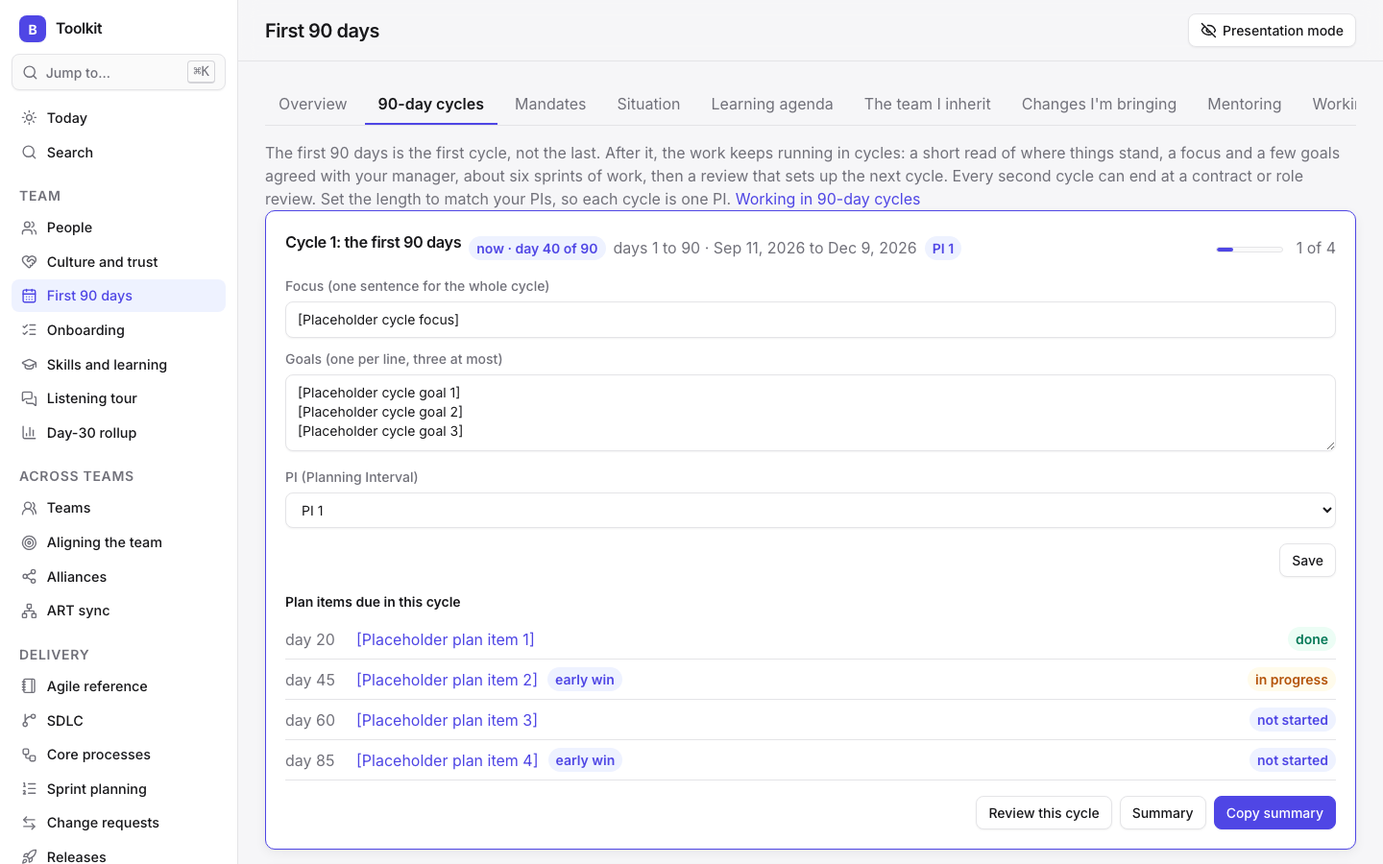
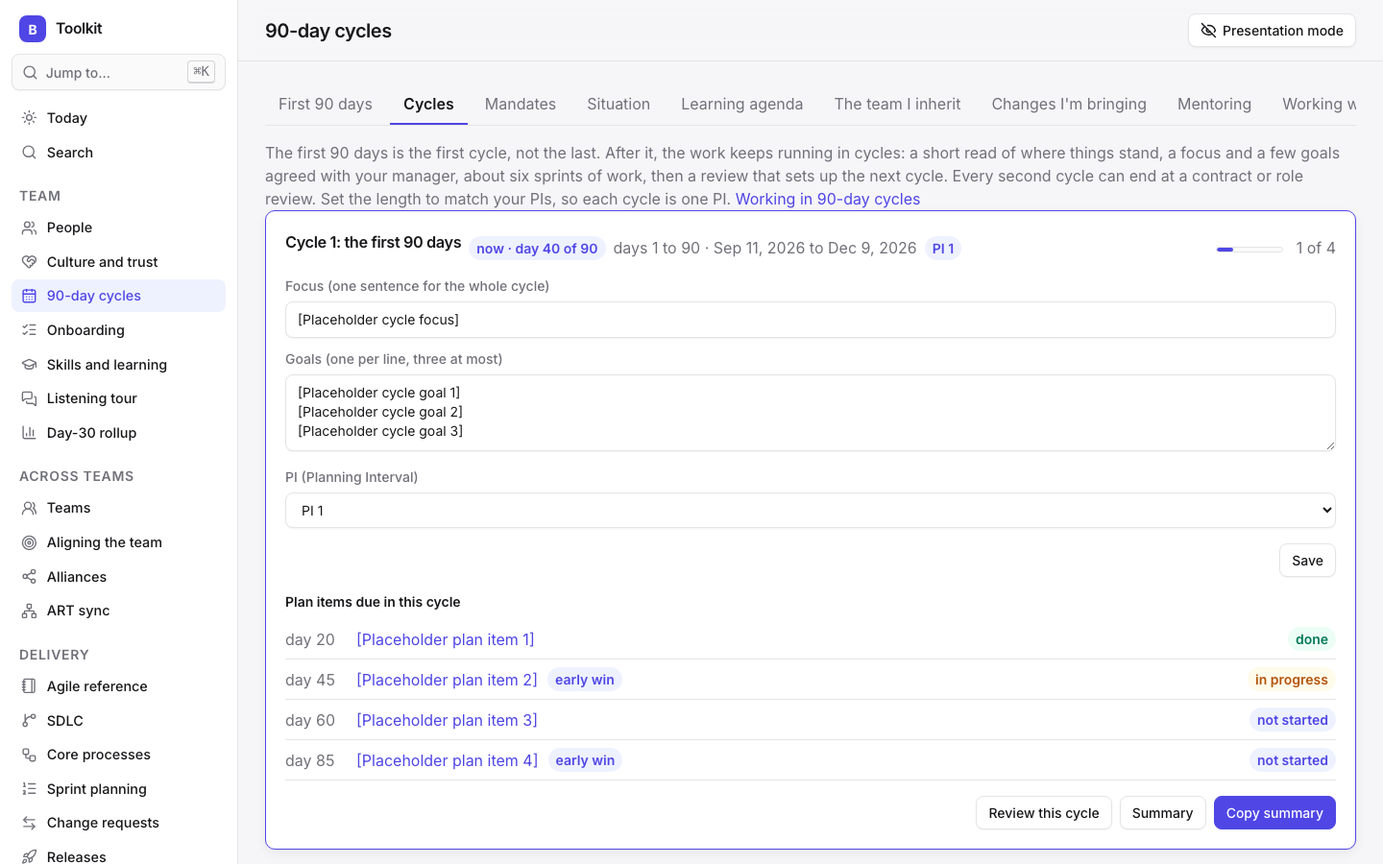
Rename the First 90 days section to 90-day cycles
The section now leads with 90-day cycles of strategy and execution; the
first 90 days is its first tab, and the cycles tab is Cycles. README
updated to match, with a line on building a learning culture from the
reports and presentations the toolkit accumulates. Screenshots retaken.

Changed region(s): [[0.2188, 0.0933, 0.9688, 0.1244], [0.1875, 0.0311, 0.2812, 0.0622], [0.0312, 0.3111, 0.0938, 0.3733]]

diff --git a/src/beanagileorg/toolkit/static/app.js b/src/beanagileorg/toolkit/static/app.js
@@ -6685,7 +6685,7 @@
   const STAGE_TONES = { idea: "", announced: "accent", trial: "warn", review: "warn", adopted: "good", dropped: "" };
   const NEXT_STAGE = { idea: ["announced", "Announce it"], announced: ["trial", "Start the trial"], trial: ["review", "Review with the team"] };
   const AUTO_LABELS = { one_on_one: "a one-on-one logged under People", interview: "a listening tour conversation marked done", growth_goal: "a growth goal on their Manager tab", feedback: "feedback marked shared on their Manager tab", mandate: "their mandate marked agreed" };
-  const f90Tabs = (active) => `<nav class="tabs">${[["", "Overview"], ["cycles", "90-day cycles"], ["mandates", "Mandates"], ["situation", "Situation"], ["learning", "Learning agenda"], ["team", "The team I inherit"], ["changes", "Changes I'm bringing"], ["mentoring", "Mentoring"], ["working", "Working with me"]]
+  const f90Tabs = (active) => `<nav class="tabs">${[["", "First 90 days"], ["cycles", "Cycles"], ["mandates", "Mandates"], ["situation", "Situation"], ["learning", "Learning agenda"], ["team", "The team I inherit"], ["changes", "Changes I'm bringing"], ["mentoring", "Mentoring"], ["working", "Working with me"]]
     .map(([k, l]) => `<a href="#/first90${k ? "/" + k : ""}" class="${k === active ? "active" : ""}">${l}</a>`).join("")}</nav>`;
   const f90Progress = (done, total) => `<span class="progress"><span style="width:${total ? Math.round((100 * done) / total) : 0}%"></span></span><span class="quiet">${done ?? 0} of ${total ?? 0}</span>`;
   const f90_dayLabel = (n) => n == null ? "not started" : n < 1 ? `starts in ${1 - n} day${1 - n === 1 ? "" : "s"}` : n > 90 ? `day ${n}, past 90` : `day ${n}`;
@@ -6733,7 +6733,7 @@
 
 
   BA.view("/first90", {
-    title: "First 90 days",
+    title: "90-day cycles",
     async render(main, param) {
       const views = { cycles: renderCycles, team: renderF90Team, changes: renderF90Changes, working: renderWorking, mandates: renderMandates, situation: renderSituation, learning: renderLearning, mentoring: renderMentoring };
       if (views[param]) return views[param](main);

diff --git a/src/beanagileorg/core/coaching.py b/src/beanagileorg/core/coaching.py
@@ -595,7 +595,7 @@ GUIDES = [
             "Which decisions should wait for the people who'll carry them out?",
         ],
         "try": [
-            "Set your team decision deadlines in First 90 days, and mark your key people on their pages.",
+            "Set your team decision deadlines under 90-day cycles, and mark your key people on their pages.",
             "Ask HR who your partner is for any change to roles.",
         ],
         "related": ["/first90", "/people", "/alignment"], "reading": [F90],
@@ -1624,7 +1624,7 @@ GUIDES = [
             "What did the last cycle teach us that should change how we run this one?",
         ],
         "try": [
-            "Open 90-day cycles under First 90 days, write the current cycle's focus in one sentence, and pick its three goals.",
+            "Open Cycles under 90-day cycles, write the current cycle's focus in one sentence, and pick its three goals.",
         ],
         "related": ['/first90', '/plans', '/coaching/early-wins'], "reading": [F90],
     },
@@ -1676,7 +1676,7 @@ TIPS = {
                 ("Note what each key person expects from you, especially anyone who shapes how your work is judged.", "your-manager", 14),
                 ("Recognize quiet work too. Keeping things from breaking deserves as much credit as fixing what broke.", "read-the-situation", 24)],
     "/onboarding": [("Start each onboarding with its type (new hire, contractor, promotion, a move). The check-ins and the Set up to succeed check follow from it.", "supporting-a-new-hire", 53),
-        ("New hires and the team you inherit both need their first 90 days. Track both side by side under First 90 days.", "leading-change", 8),
+        ("New hires and the team you inherit both need their first 90 days. Track both side by side under 90-day cycles.", "leading-change", 8),
                     ("A new member's first week sets how they'll feel about the team. Make sure their buddy checks in daily.", "earning-trust"),
                     ("At the 30-day check-in, ask what the checklist missed and update the template.", "feedback"),
                     ("Hires from outside the company need a culture guide and a business orientation, not just accounts and tools.", "joining-from-outside", 13)],

diff --git a/src/beanagileorg/core/help.py b/src/beanagileorg/core/help.py
@@ -77,7 +77,7 @@ TOOLKIT = {
         "related": ["/planning", "/status", "/coaching/change-mid-sprint"],
     },
     "/first90": {
-        "purpose": "Your first 90 days, each new hire's, and the team you inherit, side by side by day: for them it's the first 90 days with a new manager who is bringing change.",
+        "purpose": "Work in 90-day cycles of strategy and execution. The first cycle is your first 90 days, each new hire's, and the team you inherit, side by side by day; each cycle after it gets a focus, a few goals and a review.",
         "steps": ["Set your start date in Settings and pick your own record under People, so the team and the day count are known.",
                   "Give your inherited team their milestones: first one-on-one, career conversation, growth goal, feedback both ways, a day-90 check-in.",
                   "Under Team decisions, set the days for conclusions about the team and for acting on them, mark where alignment and the team stand, and recognize key people early.",

diff --git a/src/beanagileorg/toolkit/app.py b/src/beanagileorg/toolkit/app.py
@@ -52,7 +52,7 @@ NAV = [
     {"group": "Team"},
     {"path": "/people", "icon": "users", "label": "People"},
     {"path": "/culture", "icon": "heart-handshake", "label": "Culture and trust"},
-    {"path": "/first90", "icon": "calendar-days", "label": "First 90 days"},
+    {"path": "/first90", "icon": "calendar-days", "label": "90-day cycles"},
     {"path": "/onboarding", "icon": "list-checks", "label": "Onboarding"},
     {"path": "/skills", "icon": "graduation-cap", "label": "Skills and learning"},
     {"path": "/listening", "icon": "messages-square", "label": "Listening tour"},

diff --git a/README.md b/README.md
@@ -33,7 +33,7 @@ All screenshots use placeholder data (`scripts/demo_data.py`, captured with `scr
 
 ## Who it's for
 
-People responsible for making Agile real, not just named: a manager bringing Scrum to a team that has been working ad hoc, a Scrum Master who wants the events, artifacts and commitments to actually work, or a leader asked to spread good practice across the teams of an Agile Release Train and run its ART sync. It suits someone starting a new leadership role (the First 90 days screens, listening tour and 30/60/90 plans are built for that) as well as someone running an established team week to week, and it keeps everything in one private place instead of scattered across documents, spreadsheets and chat.
+People responsible for making Agile real, not just named: a manager bringing Scrum to a team that has been working ad hoc, a Scrum Master who wants the events, artifacts and commitments to actually work, or a leader asked to spread good practice across the teams of an Agile Release Train and run its ART sync. It suits someone running an established team week to week as well as someone starting a new leadership role (the first 90-day cycle, listening tour and 30/60/90 plans are built for that). It also suits a leader building a learning culture: reports, presentations, retros and decisions accumulate into a library drawn from the same records, so progress can be tracked over time and shared with the team, stakeholders and the wider business. Everything stays in one private place instead of scattered across documents, spreadsheets and chat.
 
 ## Becoming an Agile organization
 
@@ -45,10 +45,10 @@ How the toolkit maps onto the work of adopting Agile:
 | **Know where you stand.** SAFe concepts, every Scrum accountability, event, artifact and commitment, and common practices, each marked as practiced, partly or not yet, with a coverage view of the gaps. | Agile reference |
 | **Run the events.** Sprint planning against capacity and a sprint goal, the daily scrum's follow-ups, sprint reviews and retrospectives whose commitments are reviewed next time. | Sprint planning, Dev-sync log, Sprint notebook, Retrospectives |
 | **Keep the artifacts honest.** One refined, estimated product backlog beside Jira, sprint backlogs, a definition of ready and a definition of done, with QA built in. | Sprint planning, QA resources, SDLC |
-| **Bring change in well.** Each change announced with its reason, tried for a set time, reviewed with the team and then kept or dropped, in waves rather than all at once, with team agreements and the behaviors you want to shift. | First 90 days, Culture and trust |
-| **Read the situation.** Diagnose each area as a start-up, turnaround, accelerated growth, realignment or sustaining success, and lead change at the pace each needs. | First 90 days |
+| **Bring change in well.** Each change announced with its reason, tried for a set time, reviewed with the team and then kept or dropped, in waves rather than all at once, with team agreements and the behaviors you want to shift. | 90-day cycles, Culture and trust |
+| **Read the situation.** Diagnose each area as a start-up, turnaround, accelerated growth, realignment or sustaining success, and lead change at the pace each needs. | 90-day cycles |
 | **Make the case with facts.** Delivery metrics beside outside benchmarks such as DORA, sprint and weekly reports, and updates that need no meeting. | Metrics, Reports, Comms studio |
-| **Plan as a train.** PI planning with objectives, a program board and the confidence vote; an ART sync with owners and dates on every cross-team item; 90-day cycles that line up with PIs; and support for mentoring other managers as they adopt the practices. | PI planning, ART sync, Teams, First 90 days |
+| **Plan as a train.** PI planning with objectives, a program board and the confidence vote; an ART sync with owners and dates on every cross-team item; 90-day cycles that line up with PIs; and support for mentoring other managers as they adopt the practices. | PI planning, ART sync, Teams, 90-day cycles |
 
 ## Status
 
@@ -136,14 +136,14 @@ Image generation in the Comms studio is also optional: point it at any local ser
 
 **Team**
 
-- **Today:** an Ask box, a quick work log, and what needs you: overdue tasks and dev-sync items, what's due this week, obligations, one-on-ones and check-ins, commitments, change requests waiting, reports due, culture follow-ups and today's standard, First 90 days milestones and check-ins, mandate reviews, quiet peers, people named on your systems you haven't met yet, vendor renewals and learning goals at risk. A Coaching this week card suggests guides from what's happening (overdue retro commitments, an open high risk, low energy three reflections running, sprints short of commitment, and more), with a prompt of the week; one-on-ones this week link to a drafted agenda.
+- **Today:** an Ask box, a quick work log, and what needs you: overdue tasks and dev-sync items, what's due this week, obligations, one-on-ones and check-ins, commitments, change requests waiting, reports due, culture follow-ups and today's standard, 90-day cycle milestones and check-ins, mandate reviews, quiet peers, people named on your systems you haven't met yet, vendor renewals and learning goals at risk. A Coaching this week card suggests guides from what's happening (overdue retro commitments, an open high risk, low energy three reflections running, sprints short of commitment, and more), with a prompt of the week; one-on-ones this week link to a drafted agenda.
 - **People, a private CRM:** a page for everyone you work with: title, location, contact, who they report to, teams, how they like to communicate, what motivates them, things to remember and key dates. Log every one-on-one, meeting and call with notes, takeaways and follow-ups; see relationship health against a check-in cadence, a Before you meet summary and a timeline across the toolkit. Choose which fields to use; sensitive notes stay masked until you show them, and private fields never appear while presenting. Under Fields, export People as a roster file another manager can import into their own copy (your team or everyone; shareable fields by default, private fields only if you tick them and confirm a list of the impressions and labels that would go; notes, conversations, feedback, assessments, support notes and every field that records your judgment of a person never), and import one the same way. Each person can carry their own Working with me, in their words.
 - **Manager tools:** mark yourself, and your direct reports get a Manager tab: growth goals, a log of praise, feedback, wins and concerns (marked shared or not), and a drafted one-on-one agenda. A Managing themselves tab holds what each report chooses to share about how they're managing (energy, load, what's hard, what would help, patterns they recognize, disciplines they're working on, who supports them), only once you've recorded their consent; a summary for HR holds only the check-ins they agreed to share, and is logged. Or give one named HR contact a timed, read-only link to the same summary: it expires (an hour to seven days), can be limited to a few views, needs an access code sent another way, locks after five wrong codes, stops working the moment consent is withdrawn or you revoke it, and every view is logged. The page opens nothing else in the app, and only where HR can reach this computer (for example over a private network, with its address added to BEANAGILEORG_ALLOWED_HOSTS). Private: never presented, packed, read by a token or sent to a cloud model. Commitments both ways on anyone's page (what you owe them, what they owe you), with yours due and theirs late on Today.
 - **Org chart:** reporting lines drawn from each person's Reports to, with every person a link to their page.
 - **Placeholders and rosters:** stand-in people in [brackets] until you know who they are, marked and filterable; a real name clears the mark and keeps their history. Import a whole team from a roster file: people, reporting lines, team membership and which record is you.
 - **Relationship balance:** your conversations split up (your management chain), down (your reporting line), sideways (peers) and outward, against the period before, with peers listed quietest first. Each person can carry what you can offer them, what you need from them, what they expect from you, and the kind of advice you go to them for. Today nudges when conversations skew upward or a key peer goes quiet. Each peer shows what you owe each other and their open ART sync items.
 - **Culture and trust:** your standards (one shown on Today each day, with a weekly self-check), a private log of what you notice (intimidation, chaos from missing process, quiet voices, blame, and the good moments), a trust pulse over time, team agreements, a role brief, **behaviors to change** (the patterns that stand in the way, such as lack of focus or discipline, and how you want people to work instead), a **culture map** that reads each unit (your team, a team you're integrating, the wider organization) in three layers (what's visible, everyday norms such as how influence, meetings, conflict and recognition work, and the assumptions about power underneath), and a **glossary** of the local language. Upward questions logs what the team wants leadership to answer: anonymous or not (who asked stays private), who it went to, the answer, how many days it took, and when the team heard back; Today reminds you to chase answers older than two weeks and to tell the team. Growth paths set out each track's levels, what's expected and what moves someone up, with (privately) where each report sits.
-- **First 90 days:** three tracks side by side by day number: yours (plans, listening tour, reflections), each new hire's onboarding, and the team you inherit, whose first 90 days with you get milestones, a "Working with me" page, a plan for how you'll engage each audience in your first days, check-ins at days 30, 60 and 90 (each with an informal 360 on how you're adapting), team decision deadlines (the day you'll reach conclusions about the team and the day you'll act, with reminders on Today), a two-track view of organizational alignment and team building moving through the same four stages together (what is, what should be, how to get there, getting there) with a warning when one runs ahead, a reminder to recognize the key people you can't afford to lose early, a private assessment of each person you inherit (a first impression kept as written, then a considered view scored 1 to 5 on competence, judgment, energy, focus, relationships and trust with evidence, weighted by your own criteria, flagged when below your threshold, with an A, B or C placement and the role they've played in the group, plus how critical the position is (a B or C player in a critical role is flagged), fit with the situation, a judgment note, a role template, and where they stand: keep in place, keep and develop, move, replace, or observe, which only changes from observe once you're 90% sure; a replace shows the alternatives to try first and a reminder to treat the person with respect; and whether they're moved more by push or pull), notes on the team as a whole (alliances, who defers to whom, how consistent the one-on-one answers were), how the team worked before you (roles people played, meetings, who decided what, whether core meetings were too inclusive or too exclusive, and your predecessor's style next to yours), six closing questions on building the team answered from what you've filled in, role templates for judging people in unfamiliar functions (what to measure, what it should and shouldn't show, questions, warning signs; starters for developers, Salesforce, integration and QA), and a visible list of the changes you're bringing (announced, tried, reviewed, then kept or dropped), grouped into waves, with a warning when too many are under way at once, and a readiness check on each (awareness, diagnosis, vision, plan, support) that says whether to plan and implement or to build the missing piece together first. Also: mandates for you and each report (purpose, outcomes, decision rights, proposals and open questions, agreed with a review date), a situation diagnosis per area (start-up, turnaround, accelerated growth, realignment or sustaining success, each with its usual mood, your job with it, its pace, and its typical challenges and opportunities, plus how the area got here, a warning when areas need different paces, and a portfolio view that sorts your areas into the five situations with a share of effort for each, checks that the kind of situation you most enjoy isn't getting the most effort by default, and copies as Markdown to share; turnarounds and realignments also show how to lead change in each: learning, intent, priorities, team, early wins and alliances; each situation notes whether it calls for a hero or a steward, and the portfolio checks that against your own style and shows your team's mix), a learning agenda (starter questions on the business, the people, the culture, the history and how decisions really get made, which turn into hypotheses to test as you learn, with a warning when technical questions crowd out culture and politics), a view of whose perspective you're learning from (customers, vendors, the frontline, integrators, natural historians and more) and which gaps remain, a checklist of structured ways to learn, a phased learning plan from before day 1 to day 60 (including two reviews of your hypotheses with your manager), conversations with your manager (where each stands and its priorities for the next 30 days, your manager's top three priorities, three things for the next one-on-one, what they're protective of, a resource menu of what each level of support buys, how they like to work, and what to ask them for given your situations), the same five conversations with each of your reports (situation, expectations, resources, style, development) with status and priorities, the managers you mentor, and a Momentum card. Near day 90, a summary for your manager draws on all three tracks and the delivery scorecard. Answered learning questions become business landscape points in one step, and themes the listening tour keeps raising suggest new questions. A team change records the agreement or SDLC policy it became, and the change list copies as one page the team can read. Mandates keep a snapshot when agreed (and whenever you ask, such as day 30 and day 90) to compare what was agreed with what stands now, and each outcome shows the plan and roadmap items serving it. After day 90 the work keeps the same rhythm in 90-day cycles: each gets a focus, up to three goals, the plan items and wins due in its days and an optional Program Increment, then a review in its last two weeks (the delivery scorecard kept as it stood, a mandate snapshot, what went well, what to change and the next focus) and a one-page summary for your manager. The length is 90 days by default or matched to your PIs, Today prompts for the review and the next focus, and the core challenges check comes round at each cycle end.
+- **90-day cycles:** work runs in 90-day cycles of strategy and execution. The first cycle, your first 90 days, shows three tracks side by side by day number: yours (plans, listening tour, reflections), each new hire's onboarding, and the team you inherit, whose first 90 days with you get milestones, a "Working with me" page, a plan for how you'll engage each audience in your first days, check-ins at days 30, 60 and 90 (each with an informal 360 on how you're adapting), team decision deadlines (the day you'll reach conclusions about the team and the day you'll act, with reminders on Today), a two-track view of organizational alignment and team building moving through the same four stages together (what is, what should be, how to get there, getting there) with a warning when one runs ahead, a reminder to recognize the key people you can't afford to lose early, a private assessment of each person you inherit (a first impression kept as written, then a considered view scored 1 to 5 on competence, judgment, energy, focus, relationships and trust with evidence, weighted by your own criteria, flagged when below your threshold, with an A, B or C placement and the role they've played in the group, plus how critical the position is (a B or C player in a critical role is flagged), fit with the situation, a judgment note, a role template, and where they stand: keep in place, keep and develop, move, replace, or observe, which only changes from observe once you're 90% sure; a replace shows the alternatives to try first and a reminder to treat the person with respect; and whether they're moved more by push or pull), notes on the team as a whole (alliances, who defers to whom, how consistent the one-on-one answers were), how the team worked before you (roles people played, meetings, who decided what, whether core meetings were too inclusive or too exclusive, and your predecessor's style next to yours), six closing questions on building the team answered from what you've filled in, role templates for judging people in unfamiliar functions (what to measure, what it should and shouldn't show, questions, warning signs; starters for developers, Salesforce, integration and QA), and a visible list of the changes you're bringing (announced, tried, reviewed, then kept or dropped), grouped into waves, with a warning when too many are under way at once, and a readiness check on each (awareness, diagnosis, vision, plan, support) that says whether to plan and implement or to build the missing piece together first. Also: mandates for you and each report (purpose, outcomes, decision rights, proposals and open questions, agreed with a review date), a situation diagnosis per area (start-up, turnaround, accelerated growth, realignment or sustaining success, each with its usual mood, your job with it, its pace, and its typical challenges and opportunities, plus how the area got here, a warning when areas need different paces, and a portfolio view that sorts your areas into the five situations with a share of effort for each, checks that the kind of situation you most enjoy isn't getting the most effort by default, and copies as Markdown to share; turnarounds and realignments also show how to lead change in each: learning, intent, priorities, team, early wins and alliances; each situation notes whether it calls for a hero or a steward, and the portfolio checks that against your own style and shows your team's mix), a learning agenda (starter questions on the business, the people, the culture, the history and how decisions really get made, which turn into hypotheses to test as you learn, with a warning when technical questions crowd out culture and politics), a view of whose perspective you're learning from (customers, vendors, the frontline, integrators, natural historians and more) and which gaps remain, a checklist of structured ways to learn, a phased learning plan from before day 1 to day 60 (including two reviews of your hypotheses with your manager), conversations with your manager (where each stands and its priorities for the next 30 days, your manager's top three priorities, three things for the next one-on-one, what they're protective of, a resource menu of what each level of support buys, how they like to work, and what to ask them for given your situations), the same five conversations with each of your reports (situation, expectations, resources, style, development) with status and priorities, the managers you mentor, and a Momentum card. Near day 90, a summary for your manager draws on all three tracks and the delivery scorecard. Answered learning questions become business landscape points in one step, and themes the listening tour keeps raising suggest new questions. A team change records the agreement or SDLC policy it became, and the change list copies as one page the team can read. Mandates keep a snapshot when agreed (and whenever you ask, such as day 30 and day 90) to compare what was agreed with what stands now, and each outcome shows the plan and roadmap items serving it. Every cycle after it keeps the same rhythm: a focus, up to three goals, the plan items and wins due in its days and the PI it lines up with, then a review in its last two weeks (the delivery scorecard kept as it stood, a mandate snapshot, what went well, what to change and the next focus) and a one-page summary for your manager. The length is 90 days by default or matched to your PIs, Today prompts for the review and the next focus, and the core challenges check comes round at each cycle end.
 - **Onboarding:** a checklist template by track (Salesforce, MuleSoft, QA, employee, contractor) from the week before day 1 to day 90, copied for each new member with real dates, progress, items for you, the buddy and IT, a materials list, and a Markdown checklist to send them. Hires from outside the company get a business orientation and a culture guide as well as a buddy. Items due for you show on Today. Each onboarding has a type (new hire, contractor, move between teams, promotion, lateral move) that adds set check-ins at days 7 and 60 and items for that kind of move (a promotion covers the old role, early training and what success looks like at the new level), a support team (buddy, mentor or culture guide, HR contact), and a Set up to succeed check against the common ways organizations set people up to fail, partly filled in from the toolkit. A new member can get a timed, read-only page of their own checklist, and their feedback turns into checklist template items for the next person.
 - **Transitions:** a heat map of where people are joining, moving or stepping up, by unit and major change, with evidence from your teams (who started recently, onboardings in progress, open seats), a check of the support that exists today, what hiring has taught you, and a common core kit: a one-page playbook in the toolkit's shared language and a 90-day plan template for any new person.
 - **Open seats:** a role you're hiring for, with its situation, how much transition risk you can accept and what it takes to fit in. Each candidate's transition risk is noted in the interview; hiring creates the person and an onboarding that carries those risks, and at day 90 Today asks which risks were real, so your picture of the culture sharpens with each hire.
@@ -183,7 +183,7 @@ Image generation in the Comms studio is also optional: point it at any local ser
 
 **Reporting**
 
-- **30/60/90 plans:** one plan per month for the first six months (add more for a finer step or a longer view), with a headline each and dates from the start date. Items are outcomes, actions, measures or things you won't change, each tagged with the listening-tour themes behind it. Early wins can be linked to the agreed outcome they serve and the behavior they start to change, with a flag on any that serve no outcome. Each can be scored with an early wins evaluation (four questions, 0 to 4 each), and candidates are ranked so you keep three or four. Each early win can be planned as a project with FOG LAMP (focus, oversight, goals, leadership, abilities, means, process), with a lead and team from People; change agents are marked on their pages, listed on First 90 days and offered first as project leads. A side panel shows which themes no item answers yet. Copy the outline as Markdown, or build a deck from it in the Comms studio. Marking a plan presented saves a version, and you can save one any time; "What's changed" compares a version with now or with any later version, listing items added, removed and changed. Each plan's header shows its check-in counts, and Today reminds you when a plan's last day has passed with items not yet checked in. At each checkpoint, check every item in as met, partly met, moved (to a new day or the next plan) or dropped, with a reason for anything moved or dropped, and copy a summary for the review.
+- **30/60/90 plans:** one plan per month for the first six months (add more for a finer step or a longer view), with a headline each and dates from the start date. Items are outcomes, actions, measures or things you won't change, each tagged with the listening-tour themes behind it. Early wins can be linked to the agreed outcome they serve and the behavior they start to change, with a flag on any that serve no outcome. Each can be scored with an early wins evaluation (four questions, 0 to 4 each), and candidates are ranked so you keep three or four. Each early win can be planned as a project with FOG LAMP (focus, oversight, goals, leadership, abilities, means, process), with a lead and team from People; change agents are marked on their pages, listed under 90-day cycles and offered first as project leads. A side panel shows which themes no item answers yet. Copy the outline as Markdown, or build a deck from it in the Comms studio. Marking a plan presented saves a version, and you can save one any time; "What's changed" compares a version with now or with any later version, listing items added, removed and changed. Each plan's header shows its check-in counts, and Today reminds you when a plan's last day has passed with items not yet checked in. At each checkpoint, check every item in as met, partly met, moved (to a new day or the next plan) or dropped, with a reason for anything moved or dropped, and copy a summary for the review.
 - **Work log:** wins, progress, blockers, decisions, asks and what's next, noted as they happen, each for leadership, your manager or just you.
 - **Weekly and sprint reports:** every date lands in its week, week in the role and sprint week (a two-week sprint has a week 1 and a week 2). A weekly report for any week, for leadership (exportable data only) or your manager, with a suggested overall color; a sprint report with the goal, points against commitment, what carried over, scope changes and each sprint week. Edit, copy, save, mark sent, or turn either into a short video script. Activity shows everything you moved forward in a week, with Add to log. Set the week's overall rating and line once and it carries into both the weekly report and the status draft; a monthly roll-up builds the month from the weeks; the report for your manager summarizes mentoring of the other managers.
 
